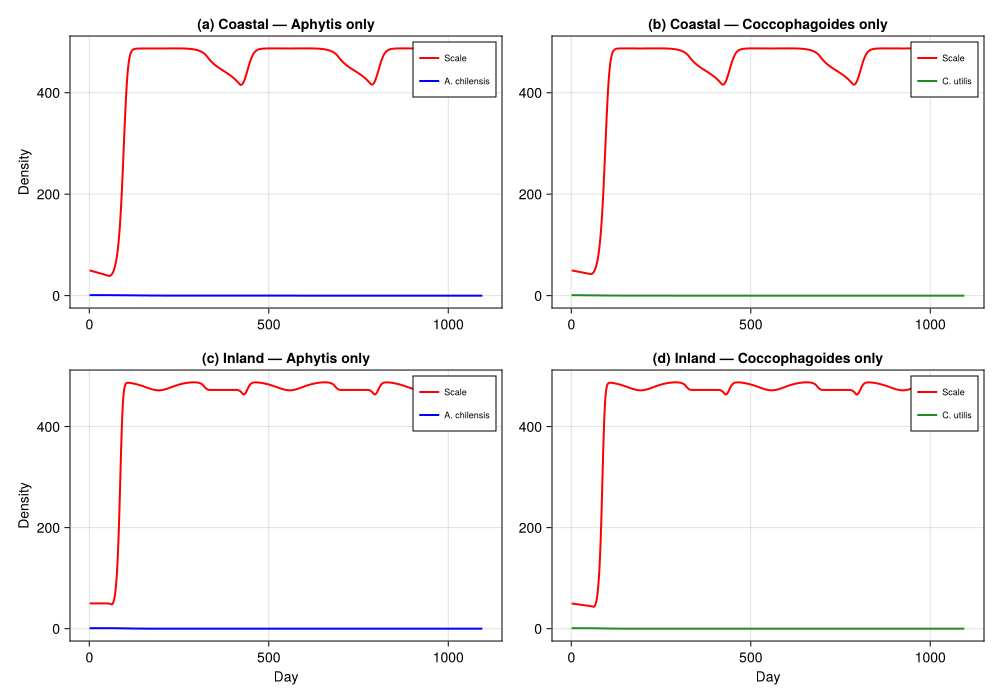
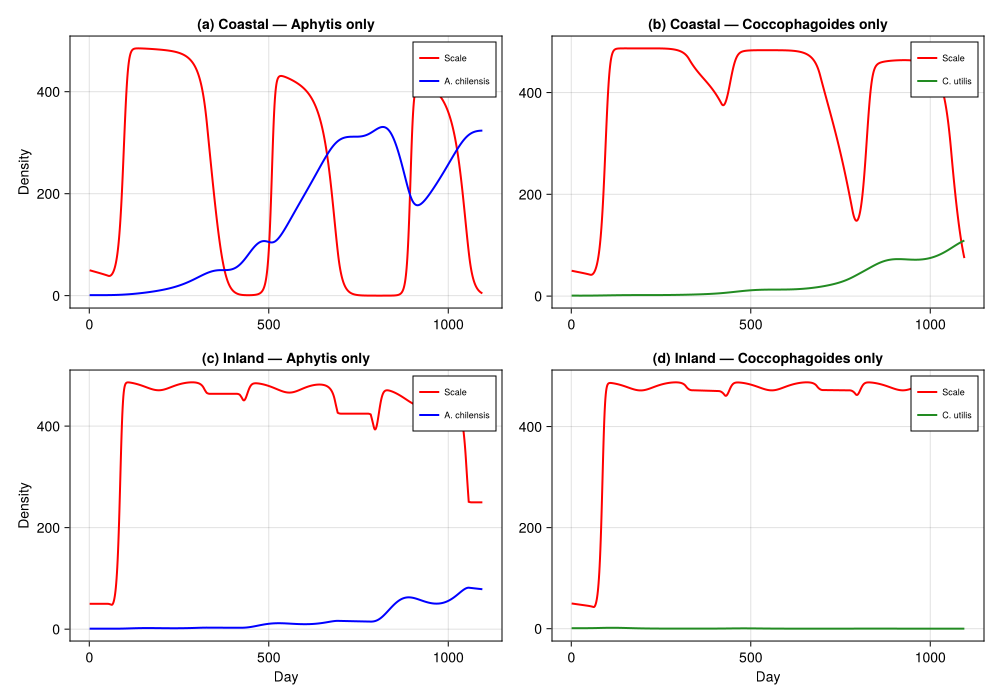
Vignette 32: parasitoid recruits emerge from an immature pool
Each day's parasitized hosts were multiplied by the immature emergence
fraction dd/τ (about 0.02-0.05) and the rest were discarded, so a
parasitoid's gain per degree-day (at most 0.15 x 0.3 / 200, about 0.0002)
was far below its loss (0.003): both parasitoids died out and the scale
sat at carrying capacity in every scenario. In the source models each
parasitized host yields one parasitoid (Gutierrez & Pizzamiglio 2007) and
the parasitoid birth rate is the attack rate (Rochat & Gutierrez 2001,
eqn 12). Parasitized hosts now join an immature pool that emerges at rate
dd/τ per day, so development still takes τ degree-days on average.

diff --git a/vignettes/32_oleander_scale/32_oleander_scale.md b/vignettes/32_oleander_scale/32_oleander_scale.md
@@ -512,6 +512,11 @@ println("  Coccophagoides web: $(length(web_cu.links)) link (α=$(CU_SEARCH))")
 
 The single-parasitoid scenario uses the `PopulationSystem` solver with
 `BulkPopulation` components and a `CustomRule` for parasitism dynamics.
+Each parasitized scale yields at most one parasitoid (Gutierrez &
+Pizzamiglio 2007): parasitized hosts join a pool of developing
+immatures, which emerge as adults at rate $dd/\tau$ per day, so immature
+development takes $\tau$ degree-days on average (a one-substage
+distributed delay).
 
 ``` julia
 function run_single_parasitoid(; weather, par_TL, par_search, par_dd_immature, n_years=3)
@@ -525,29 +530,38 @@ function run_single_parasitoid(; weather, par_TL, par_search, par_dd_immature, n
             N + N * rate * (1.0 - N / 500.0) - SCALE_MU_NYMPH * dd * N
         end)
 
-    par_bp = BulkPopulation(:parasitoid, 1.0)
+    par_bp = BulkPopulation(:parasitoid, 1.0)       # adults
+    imm_bp = BulkPopulation(:parasitoid_imm, 0.0)   # developing in parasitized hosts
 
     parasitism = CustomRule(:parasitism, (sys, w, day, p) -> begin
         T = w.T_mean
         dd_par = max(0.0, T - p.par_TL)
         S = total_population(sys[:scale].population)
         P = total_population(sys[:parasitoid].population)
+        I = total_population(sys[:parasitoid_imm].population)
         attacked = 0.0
-        if dd_par > 0 && P > 0
-            per_capita = p.par_search * (1.0 - exp(-0.5 * S / max(P, 0.1)))
-            attacked = min(per_capita * P, 0.5 * S)
-            frac = attacked / max(S, 1e-10)
-            remove_fraction!(sys, :scale, clamp(frac, 0.0, 1.0))
-            emerg = dd_par / p.par_dd_immature
+        if dd_par > 0
+            if P > 0
+                per_capita = p.par_search * (1.0 - exp(-0.5 * S / max(P, 0.1)))
+                attacked = min(per_capita * P, 0.5 * S)
+                frac = attacked / max(S, 1e-10)
+                remove_fraction!(sys, :scale, clamp(frac, 0.0, 1.0))
+            end
+            # Immatures complete development at rate dd/τ per day (mean τ DD):
+            # the emergence fraction acts on the stock of immatures, while each
+            # day's parasitized hosts join that stock.
+            emerged = I * min(1.0, dd_par / p.par_dd_immature)
+            sys[:parasitoid_imm].population.value[] = I - emerged + attacked * 0.3
             sys[:parasitoid].population.value[] = max(0.0,
-                P + attacked * 0.3 * emerg - 0.003 * dd_par * P)
+                P + emerged - 0.003 * dd_par * P)
         else
             sys[:parasitoid].population.value[] = max(0.0, P * 0.999)
         end
         return (attacked=attacked,)
     end)
 
-    system = PopulationSystem(:scale => scale_bp, :parasitoid => par_bp)
+    system = PopulationSystem(:scale => scale_bp, :parasitoid => par_bp,
+                              :parasitoid_imm => imm_bp)
     prob = PBDMProblem(MultiSpeciesPBDMNew(), system, weather, (1, n_sim);
         p=(par_TL=par_TL, par_search=par_search, par_dd_immature=par_dd_immature),
         rules=AbstractInteractionRule[parasitism])
@@ -595,10 +609,10 @@ println("  Inland + Coccophagoides:  $(round(mean(s_cu_inland[yr3]), digits=1))"
 ```
 
     Mean scale density (year 3):
-      Coastal + Aphytis:        470.8
-      Coastal + Coccophagoides: 470.8
-      Inland + Aphytis:         478.1
-      Inland + Coccophagoides:  478.1
+      Coastal + Aphytis:        160.2
+      Coastal + Coccophagoides: 357.5
+      Inland + Aphytis:         419.6
+      Inland + Coccophagoides:  477.9
 
 ``` julia
 fig_single = Figure(size=(1000, 700))
@@ -657,6 +671,8 @@ function run_two_parasitoids(; weather, n_years=3)
 
     ac_bp = BulkPopulation(:aphytis, 1.0)
     cu_bp = BulkPopulation(:coccophagoides, 1.0)
+    ac_imm = BulkPopulation(:aphytis_imm, 0.0)
+    cu_imm = BulkPopulation(:coccophagoides_imm, 0.0)
 
     competition = CustomRule(:competition, (sys, w, day, p) -> begin
         T = w.T_mean
@@ -690,19 +706,24 @@ function run_two_parasitoids(; weather, n_years=3)
             remove_fraction!(sys, :scale, clamp(frac, 0.0, 1.0))
         end
 
-        # Parasitoid population dynamics
+        # Parasitoid population dynamics: parasitized hosts join each species'
+        # immature stock, which emerges at rate dd/τ per day (mean τ DD)
+        Ia = total_population(sys[:aphytis_imm].population)
         if dd_ac > 0
-            emerg_ac = dd_ac / AC_DD_IMMATURE
+            emerged_ac = Ia * min(1.0, dd_ac / AC_DD_IMMATURE)
+            sys[:aphytis_imm].population.value[] = Ia - emerged_ac + attacked_ac * 0.3
             sys[:aphytis].population.value[] = max(0.0,
-                Pa + attacked_ac * 0.3 * emerg_ac - 0.003 * dd_ac * Pa)
+                Pa + emerged_ac - 0.003 * dd_ac * Pa)
         else
             sys[:aphytis].population.value[] = max(0.0, Pa * 0.999)
         end
 
+        Ic = total_population(sys[:coccophagoides_imm].population)
         if dd_cu > 0
-            emerg_cu = dd_cu / CU_DD_IMMATURE
+            emerged_cu = Ic * min(1.0, dd_cu / CU_DD_IMMATURE)
+            sys[:coccophagoides_imm].population.value[] = Ic - emerged_cu + attacked_cu * 0.3
             sys[:coccophagoides].population.value[] = max(0.0,
-                Pc + attacked_cu * 0.3 * emerg_cu - 0.003 * dd_cu * Pc)
+                Pc + emerged_cu - 0.003 * dd_cu * Pc)
         else
             sys[:coccophagoides].population.value[] = max(0.0, Pc * 0.999)
         end
@@ -711,7 +732,8 @@ function run_two_parasitoids(; weather, n_years=3)
     end)
 
     system = PopulationSystem(:scale => scale_bp, :aphytis => ac_bp,
-                              :coccophagoides => cu_bp)
+                              :coccophagoides => cu_bp,
+                              :aphytis_imm => ac_imm, :coccophagoides_imm => cu_imm)
     prob = PBDMProblem(MultiSpeciesPBDMNew(), system, weather, (1, n_sim);
         rules=AbstractInteractionRule[competition])
     sol = solve(prob, DirectIteration())
@@ -741,13 +763,13 @@ println("    C. utilis:    $(round(mean(cu_inland[yr3]), digits=2))")
 
     Two-parasitoid competition — year 3 means:
       Coastal:
-        Scale: 470.8
-        A. chilensis: 0.0
-        C. utilis:    0.0
+        Scale: 201.8
+        A. chilensis: 213.26
+        C. utilis:    6.11
       Inland:
-        Scale: 478.1
-        A. chilensis: 0.0
-        C. utilis:    0.0
+        Scale: 429.9
+        A. chilensis: 43.15
+        C. utilis:    0.1
 
 ``` julia
 fig_comp = Figure(size=(1000, 500))
@@ -811,7 +833,7 @@ println("  Min scale density: $(round(minimum(scale_equilibrium), digits=1)) at 
 
     Regional gradient results:
       T_base range: 12.0–24.0°C
-      Min scale density: 453.4 at T=12.0°C
+      Min scale density: 0.0 at T=12.0°C
 
 ``` julia
 fig_reg = Figure(size=(900, 500))
@@ -827,11 +849,11 @@ lines!(ax1, collect(T_mean_range), cu_equilibrium, linewidth=2.5, color=:forestg
        label="C. utilis")
 vspan!(ax1, 12.0, 16.0, color=(:green, 0.08))
 vspan!(ax1, 20.0, 24.0, color=(:orange, 0.08))
-text!(ax1, 14.0, maximum(cu_equilibrium) * 0.9,
-    text="Coastal\nC. utilis\ndominates", align=(:center, :top), fontsize=9, color=:green)
-text!(ax1, 22.0, maximum(ac_equilibrium) * 0.9,
-    text="Inland\nA. chilensis\ndominates", align=(:center, :top), fontsize=9, color=:darkorange)
-axislegend(ax1, position=:ct, framevisible=true, labelsize=10)
+text!(ax1, 14.0, maximum(ac_equilibrium) * 0.95,
+    text="Coastal", align=(:center, :top), fontsize=9, color=:green)
+text!(ax1, 22.0, maximum(ac_equilibrium) * 0.95,
+    text="Inland", align=(:center, :top), fontsize=9, color=:darkorange)
+axislegend(ax1, position=:rt, framevisible=true, labelsize=10)
 
 ax2 = Axis(fig_reg[2, 1],
     title="(b) Scale Suppression Along Temperature Gradient",
@@ -850,6 +872,17 @@ fig_reg
 <img
 src="32_oleander_scale_files/figure-commonmark/cell-21-output-1.png"
 width="900" height="500" />
+
+> **Note on the competitive outcome.** With the tutorial parameters used
+> here, both parasitoids share the same adult loss rate (0.003 per DD),
+> the same progeny fraction (0.3) and differ mainly in search rate and
+> thermal threshold, so *A. chilensis* outperforms *C. utilis* in both
+> climates and the coastal dominance of *C. utilis* described above is
+> not reproduced. In the source model for the related olive scale system
+> (Rochat & Gutierrez 2001), the thermal ordering is the reverse:
+> *Aphytis* is active in the cooler spring and autumn and goes extinct
+> in hot regimes, while *C. utilis* is most active in summer and goes
+> extinct in cool regimes.
 
 ## Parameter Sources
 

diff --git a/CHANGELOG.md b/CHANGELOG.md
@@ -5,6 +5,19 @@ are recorded here. The format is loosely based on
 [Keep a Changelog](https://keepachangelog.com/) and the project follows
 semantic versioning once a `1.0` is tagged.
 
+## Unreleased
+
+### Fixed
+
+- **#32 Oleander scale** — the parasitoids now persist. Each day's parasitized
+  hosts were multiplied by the immature emergence fraction `dd/τ` (about 0.02–0.05)
+  and the rest discarded, so a parasitoid's gain per degree-day (at most
+  0.15 × 0.3 / 200 ≈ 0.0002) was far below its loss (0.003) and both species died
+  out. Parasitized hosts now join an immature pool that emerges at rate `dd/τ`,
+  so development still takes `τ` degree-days on average and every recruit
+  eventually emerges (one parasitoid per parasitized host, Gutierrez &
+  Pizzamiglio 2007).
+
 ## [0.2.0]
 
 ### Changed (breaking): coupled systems are shared with MatrixProjectionModels.jl
